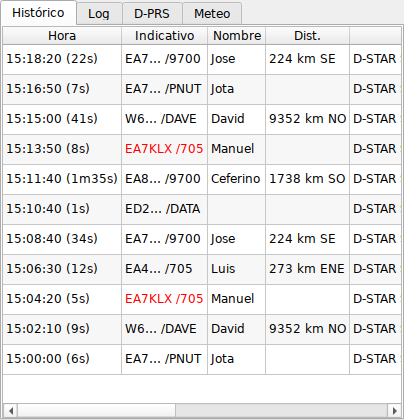
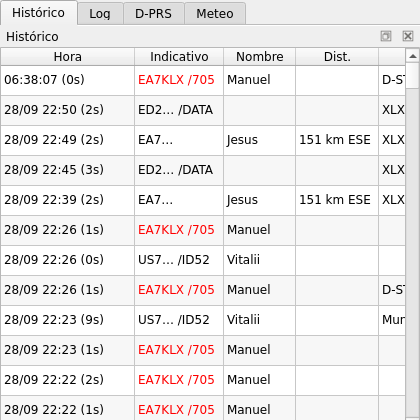
Website: 0.7.0 manual sections and screenshots, new home page screenshots and feature cards, version in the top bar, 0.7.0 changelog

Changed region(s): [[0.0, 0.0, 1.0, 1.0]]

diff --git a/website/site/es/manual.html b/website/site/es/manual.html
@@ -13,7 +13,7 @@
 <body>
 <header class="top">
   <div class="wrap">
-    <a class="brand" href="/es/"><img src="/img/icon.png" alt="">QDStar</a>
+    <a class="brand" href="/es/"><img src="/img/icon.png" alt="">QDStar<span class="ver" data-version="v{v}"></span></a>
     <nav>
       <a href="/es/#funciones">Funciones</a>
       <a href="/es/#descarga">Descarga</a>
@@ -149,7 +149,14 @@
     </ul>
     <h3>Modo, reflector y pestañas</h3>
     <p>Debajo de la pantalla están los botones <strong>INT · WiFi</strong> y <strong>EXT · USB/PC</strong>, con un LED en el que está activo. Aparece un ⚠ cuando la radio no está en el modo elegido, por ejemplo si sigue en INT y tú elegiste EXT. Deja el ratón encima para ver qué revisar.</p>
-    <p>Después vienen la lista de reflectores con sus botones y las pestañas <strong>Histórico</strong>, <strong>Log</strong>, <strong>D-PRS</strong> y <strong>Meteo</strong>.</p>
+    <p>Después vienen la lista de reflectores con sus botones y las vistas <strong>Histórico</strong>, <strong>Log</strong>, <strong>D-PRS</strong> y <strong>Meteo</strong>.</p>
+    <h3 id="vistas">Las vistas: Histórico, Log, D-PRS y Meteo</h3>
+    <p>Por defecto, las cuatro vistas están en pestañas debajo de la pantalla. Cada una tiene una pequeña barra de título con dos botones:</p>
+    <ul>
+      <li><strong>Desacoplar</strong> (o doble clic en la barra de título) pasa la vista a su propia ventana, que puedes mover y hacer tan grande como quieras. El Histórico, por ejemplo, puede ser mucho más ancho que la ventana principal. El mismo botón, o un doble clic, la vuelve a acoplar.</li>
+      <li><strong>Cerrar</strong> (✕) oculta la vista. El menú <em>Ver</em> tiene una casilla por vista para mostrarla u ocultarla.</li>
+    </ul>
+    <p><em>Ver › Restablecer disposición</em> devuelve las cuatro vistas a sus pestañas. QDStar recuerda la disposición entre sesiones. Si no queda ninguna vista en la ventana principal, esta se encoge a la pantalla y sus barras, y vuelve a crecer cuando acoplas una.</p>
     <h3 id="bandeja">Icono en la bandeja del sistema</h3>
     <figure><img src="/img/tray-states.png" width="192" height="48" alt="Icono de la bandeja: en reposo, recibiendo y transmitiendo" loading="lazy"><figcaption>El icono de la bandeja: en reposo, recibiendo (punto verde) y transmitiendo (punto rojo)</figcaption></figure>
     <p>QDStar pone un icono en la bandeja del sistema. Lleva un punto verde mientras recibes y uno rojo mientras transmites, y su tooltip muestra el modo, el reflector y la estación en el aire. Haz clic en él para mostrar u ocultar la ventana. Con el botón derecho sale el menú, con <em>Mostrar/Ocultar QDStar</em> y <em>Salir</em>.</p>
@@ -192,6 +199,10 @@
     <h2 id="historico">Histórico y log</h2>
     <figure><img src="/img/es-tab-history.png" width="404" height="420" alt="Pestaña Histórico" loading="lazy"><figcaption>La pestaña Histórico</figcaption></figure>
     <p>La pestaña <strong>Histórico</strong> recoge cada pasada, recibida o transmitida. Las columnas son hora (con la duración de la pasada entre paréntesis), indicativo, nombre, distancia, reflector, localidad y mensaje. Tus propias pasadas tienen el indicativo en rojo. Si el nombre o el mensaje llegan cuando la pasada ya ha terminado, se completan en su fila. <em>Histórico › Vaciar histórico…</em> lo borra.</p>
+    <h3 id="detalle-historico">Una pasada del histórico en la pantalla</h3>
+    <p>Haz clic en una fila del Histórico y la pantalla muestra esa pasada en lugar de la actividad en directo, dentro de un marco violeta con la etiqueta <strong>HISTÓRICO</strong>. Ves su fecha, duración, reflector, indicativo, nombre, localidad, mensaje, y la distancia y el rumbo. Las flechas del teclado recorren el histórico y la pantalla las sigue. El bloque del reflector y los últimos escuchados siguen en directo.</p>
+    <figure><img src="/img/es-screen-history.png" width="480" height="360" alt="La pantalla mostrando una pasada del histórico" loading="lazy"><figcaption>Una pasada elegida en el Histórico, con el botón LIVE</figcaption></figure>
+    <p>Para volver al tiempo real, pulsa <strong>▶ LIVE</strong> (o haz clic en cualquier parte de la pantalla) o la tecla <kbd>Esc</kbd>. También vuelve sola en cuanto empieza una pasada nueva, recibida o transmitida, para que no te pierdas ninguna.</p>
     <p>La pestaña <strong>Log</strong> cuenta lo que va haciendo la aplicación: conexiones, enlaces y errores. <em>Radio › Registrar CI-V de RX/TX en el log</em> añade el tráfico CI-V en bruto, que viene bien para informar de un problema.</p>
 
     <h2 id="dprs">D-PRS y meteo</h2>
@@ -216,19 +227,21 @@
     <p>El passcode de APRS-IS se calcula a partir de tu indicativo, así que no hay que escribir nada. Si quieres, QDStar también puede enviar las posiciones de las estaciones que escucha. Las posiciones que vienen de APRS (objetos, estaciones meteorológicas, informes retransmitidos por otras estaciones) nunca se devuelven.</p>
 
     <h2 id="ajustes">Ajustes</h2>
-    <figure><img src="/img/es-settings.png" width="550" height="814" alt="Ajustes" loading="lazy"><figcaption>Radio › Ajustes…</figcaption></figure>
-    <p>Se abren desde <em>Radio › Ajustes…</em>. Los cambios se aplican al pulsar <em>Guardar</em>. Si cambias el idioma, QDStar lo usa a partir del siguiente arranque.</p>
+    <p>Se abren desde <em>Radio › Ajustes…</em>. Están repartidos en cuatro pestañas: <strong>Interfaz</strong>, <strong>Radio</strong>, <strong>INT / EXT</strong> y <strong>APRS-IS</strong>. La primera vez, sin la radio configurada todavía, se abren en la pestaña <strong>Radio</strong>. Los cambios se aplican al pulsar <em>Guardar</em>. Si cambias el idioma, QDStar lo usa a partir del siguiente arranque.</p>
     <h3>Interfaz</h3>
+    <figure><img src="/img/es-settings-interface.png" width="572" height="327" alt="Ajustes, pestaña Interfaz" loading="lazy"><figcaption>La pestaña Interfaz, con el grupo Bandeja del sistema</figcaption></figure>
+
     <table>
       <tr><th>Campo</th><th>Para qué sirve</th></tr>
       <tr><td>Idioma</td><td>El idioma de la interfaz. <em>Idioma del sistema</em> sigue el de tu ordenador, y usa el inglés si no hay traducción para ese idioma.</td></tr>
       <tr><td>Buscar versiones nuevas al arrancar</td><td>Al arrancar, y una vez al día mientras QDStar está abierto, pregunta a GitHub si hay versión nueva (mira <a href="#actualizaciones">Actualizaciones</a>). No se envía nada más.</td></tr>
-      <tr><td>Pestaña D-PRS con todos los informes recibidos</td><td>Muestra las pestañas <strong>D-PRS</strong> y <strong>Meteo</strong>. Desactívala si solo te interesa la posición de la estación en el aire, que la pantalla muestra de todas formas.</td></tr>
+      <tr><td>Pestaña D-PRS con todos los informes recibidos</td><td>Muestra las vistas <strong>D-PRS</strong> y <strong>Meteo</strong>. Desactívala si solo te interesa la posición de la estación en el aire, que la pantalla muestra de todas formas.</td></tr>
       <tr><td>Icono en la bandeja del sistema</td><td>Muestra el <a href="#bandeja">icono de la bandeja</a>. No está disponible si el escritorio no tiene bandeja del sistema.</td></tr>
       <tr><td>Avisar cuando una estación entra en el aire</td><td>Una notificación por cada estación nueva en el aire, solo mientras la ventana de QDStar no está en primer plano.</td></tr>
       <tr><td>Al cerrar la ventana, QDStar sigue funcionando en la bandeja</td><td>El botón de cerrar oculta la ventana en vez de salir. Para salir, usa el menú de la bandeja o <em>Radio › Salir</em>.</td></tr>
     </table>
     <h3>Radio (WiFi)</h3>
+    <figure><img src="/img/es-settings-radio.png" width="572" height="327" alt="Ajustes, pestaña Radio" loading="lazy"><figcaption>La pestaña Radio</figcaption></figure>
     <table>
       <tr><th>Campo</th><th>Para qué sirve</th></tr>
       <tr><td>Indicativo</td><td>Tu indicativo, sin sufijo (<code>EA7KLX</code>). Si lo dejas vacío, QDStar lo rellena con el MY call sign de la radio la primera vez que conecta. El gateway EXT lo usa para identificarse en los reflectores, y también para formar los Terminal/AP Call Sign cuando los dejas vacíos.</td></tr>
@@ -238,6 +251,7 @@
       <tr><td>Usuario de red / Contraseña</td><td>El <em>Network User</em> creado en la radio en <em>Remote Settings</em>. Solo se usan para iniciar sesión en la radio.</td></tr>
       <tr><td>Conectar al arrancar</td><td>Conecta con la radio en cuanto se abre QDStar. Si no está marcado, conecta desde <em>Radio › Conectar</em>.</td></tr>
     </table>
+    <figure><img src="/img/es-settings-modes.png" width="572" height="327" alt="Ajustes, pestaña INT / EXT" loading="lazy"><figcaption>La pestaña INT / EXT</figcaption></figure>
     <h3>Modo INT (gateway interno, WiFi)</h3>
     <table>
       <tr><th>Campo</th><th>Para qué sirve</th></tr>
@@ -262,6 +276,7 @@
     </table>
 
     <h3>APRS-IS</h3>
+    <figure><img src="/img/es-settings-aprs.png" width="572" height="327" alt="Ajustes, pestaña APRS-IS" loading="lazy"><figcaption>La pestaña APRS-IS</figcaption></figure>
     <table>
       <tr><th>Campo</th><th>Para qué sirve</th></tr>
       <tr><td>Enviar mi posición D-PRS a APRS-IS (aprs.fi) tras cada pasada</td><td>Mira <a href="#aprs">Tu posición en APRS-IS</a>. Desactivado por defecto.</td></tr>
@@ -309,5 +324,6 @@
   </div>
 </footer>
 <script src="/zoom.js" defer></script>
+<script src="/latest.js" defer></script>
 </body>
 </html>

diff --git a/website/site/manual.html b/website/site/manual.html
@@ -13,7 +13,7 @@
 <body>
 <header class="top">
   <div class="wrap">
-    <a class="brand" href="/"><img src="/img/icon.png" alt="">QDStar</a>
+    <a class="brand" href="/"><img src="/img/icon.png" alt="">QDStar<span class="ver" data-version="v{v}"></span></a>
     <nav>
       <a href="/#features">Features</a>
       <a href="/#download">Download</a>
@@ -149,7 +149,14 @@
     </ul>
     <h3>Mode, reflector and tabs</h3>
     <p>Below the screen are the <strong>INT · WiFi</strong> and <strong>EXT · USB/PC</strong> buttons, with a LED on the active one. A ⚠ sign appears when the radio does not match the chosen mode, for example when the radio is still in INT while you chose EXT. Hover over it to see what to check.</p>
-    <p>Next come the reflector list with its buttons, and the <strong>History</strong>, <strong>Log</strong>, <strong>D-PRS</strong> and <strong>Weather</strong> tabs.</p>
+    <p>Next come the reflector list with its buttons, and the <strong>History</strong>, <strong>Log</strong>, <strong>D-PRS</strong> and <strong>Weather</strong> views.</p>
+    <h3 id="views">The views: History, Log, D-PRS and Weather</h3>
+    <p>By default the four views sit as tabs under the screen. Each one has a small title bar with two buttons:</p>
+    <ul>
+      <li><strong>Detach</strong> (or a double click on the title bar) moves the view into its own window, which you can move and make as large as you like. The History, for instance, can be much wider than the main window. The same button, or a double click, attaches it back.</li>
+      <li><strong>Close</strong> (✕) hides the view. The <em>View</em> menu has a tick box for each view to show or hide it.</li>
+    </ul>
+    <p><em>View › Reset layout</em> brings the four views back as tabs. QDStar remembers the layout between sessions. With no view left in the main window, it shrinks to the screen and its bars, and it grows back when you attach one.</p>
     <h3 id="tray">System tray icon</h3>
     <figure><img src="/img/tray-states.png" width="192" height="48" alt="Tray icon: idle, receiving and transmitting" loading="lazy"><figcaption>The tray icon: idle, receiving (green dot) and transmitting (red dot)</figcaption></figure>
     <p>QDStar puts an icon in the system tray. It has a green dot while you receive and a red one while you transmit, and its tooltip shows the mode, the reflector and the station on the air. Click it to show or hide the window. Right-click it for the menu, with <em>Show/Hide QDStar</em> and <em>Quit</em>.</p>
@@ -192,6 +199,10 @@
     <h2 id="history">History and log</h2>
     <figure><img src="/img/en-tab-history.png" width="404" height="420" alt="History tab" loading="lazy"><figcaption>The History tab</figcaption></figure>
     <p>The <strong>History</strong> tab lists every over, received and transmitted. The columns are time (with the over's duration in brackets), call sign, name, distance, reflector, location and message. Your own overs have the call sign in red. A name or message that arrives after the over has ended is filled in on its row. <em>History › Clear history…</em> deletes it.</p>
+    <h3 id="history-detail">An over from the history on the screen</h3>
+    <p>Click a row of the History and the screen shows that over in place of the live activity, in a violet frame labelled <strong>HISTORY</strong>. You see its date, duration, reflector, call sign, name, location, message, and the distance and bearing. The arrow keys move through the history, and the screen follows. The reflector block and the last heard list stay live.</p>
+    <figure><img src="/img/en-screen-history.png" width="480" height="360" alt="The screen showing an over from the history" loading="lazy"><figcaption>An over picked in the History, with the LIVE button</figcaption></figure>
+    <p>To go back to the real-time view, press <strong>▶ LIVE</strong> (or click anywhere on the screen) or press <kbd>Esc</kbd>. It also goes back on its own as soon as a new over starts, received or transmitted, so you never miss one.</p>
     <p>The <strong>Log</strong> tab shows what the application is doing: connections, links, errors. <em>Radio › Log RX/TX CI-V frames</em> adds the raw CI-V traffic, which is useful when reporting a problem.</p>
 
     <h2 id="dprs">D-PRS and weather</h2>
@@ -216,19 +227,21 @@
     <p>The APRS-IS passcode is worked out from your call sign, so there is nothing to type. Optionally, QDStar can also send the positions of the stations it hears. Positions that come from APRS (objects, weather stations, reports relayed by other stations) are never sent back.</p>
 
     <h2 id="settings">Settings</h2>
-    <figure><img src="/img/en-settings.png" width="502" height="814" alt="Settings dialog" loading="lazy"><figcaption>Radio › Settings…</figcaption></figure>
-    <p>Open them from <em>Radio › Settings…</em>. Changes apply when you press <em>Save</em>. If you change the language, QDStar uses it from the next start.</p>
+    <p>Open them from <em>Radio › Settings…</em>. They are split into four tabs: <strong>Interface</strong>, <strong>Radio</strong>, <strong>INT / EXT</strong> and <strong>APRS-IS</strong>. The first time, with no radio set up yet, they open on the <strong>Radio</strong> tab. Changes apply when you press <em>Save</em>. If you change the language, QDStar uses it from the next start.</p>
     <h3>Interface</h3>
+    <figure><img src="/img/en-settings-interface.png" width="524" height="327" alt="Settings, Interface tab" loading="lazy"><figcaption>The Interface tab, with the System tray group</figcaption></figure>
+
     <table>
       <tr><th>Field</th><th>What it does</th></tr>
       <tr><td>Language</td><td>The language of the interface. <em>System language</em> follows your computer, and falls back to English when the system language has no translation.</td></tr>
       <tr><td>Check for new versions on start-up</td><td>On start-up, and once a day while QDStar is open, it asks GitHub whether there is a new version (see <a href="#updates">Updates</a>). Nothing else is sent.</td></tr>
-      <tr><td>D-PRS tab with every report received</td><td>Shows the <strong>D-PRS</strong> and <strong>Weather</strong> tabs. Turn it off if you only care about the position of the station on the air, which the screen shows either way.</td></tr>
+      <tr><td>D-PRS tab with every report received</td><td>Shows the <strong>D-PRS</strong> and <strong>Weather</strong> views. Turn it off if you only care about the position of the station on the air, which the screen shows either way.</td></tr>
       <tr><td>Icon in the system tray</td><td>Shows the <a href="#tray">tray icon</a>. It is not available when the desktop has no system tray.</td></tr>
       <tr><td>Notify when a station comes on air</td><td>A notification for each new station on the air, only while the QDStar window is not in front.</td></tr>
       <tr><td>Closing the window keeps QDStar running in the tray</td><td>The close button hides the window instead of quitting. Quit from the tray menu or from <em>Radio › Quit</em>.</td></tr>
     </table>
     <h3>Radio (WiFi)</h3>
+    <figure><img src="/img/en-settings-radio.png" width="524" height="327" alt="Settings, Radio tab" loading="lazy"><figcaption>The Radio tab</figcaption></figure>
     <table>
       <tr><th>Field</th><th>What it does</th></tr>
       <tr><td>Call sign</td><td>Your call sign, without a suffix (<code>EA7KLX</code>). If you leave it empty, QDStar fills it in with the radio's MY call sign the first time it connects. The EXT gateway uses it to log in to reflectors, and to build the Terminal/AP call signs when those are left empty.</td></tr>
@@ -238,6 +251,7 @@
       <tr><td>Network user / Password</td><td>The <em>Network User</em> created on the radio in <em>Remote Settings</em>. They are only used to log in to the radio.</td></tr>
       <tr><td>Connect on start-up</td><td>Connects to the radio as soon as QDStar opens. Otherwise, connect from <em>Radio › Connect</em>.</td></tr>
     </table>
+    <figure><img src="/img/en-settings-modes.png" width="524" height="327" alt="Settings, INT / EXT tab" loading="lazy"><figcaption>The INT / EXT tab</figcaption></figure>
     <h3>INT mode (internal gateway, WiFi)</h3>
     <table>
       <tr><th>Field</th><th>What it does</th></tr>
@@ -262,6 +276,7 @@
     </table>
 
     <h3>APRS-IS</h3>
+    <figure><img src="/img/en-settings-aprs.png" width="524" height="327" alt="Settings, APRS-IS tab" loading="lazy"><figcaption>The APRS-IS tab</figcaption></figure>
     <table>
       <tr><th>Field</th><th>What it does</th></tr>
       <tr><td>Send my D-PRS position to APRS-IS (aprs.fi) after every over</td><td>See <a href="#aprs">Your position on APRS-IS</a>. Off by default.</td></tr>
@@ -309,5 +324,6 @@
   </div>
 </footer>
 <script src="/zoom.js" defer></script>
+<script src="/latest.js" defer></script>
 </body>
 </html>

diff --git a/website/site/es/index.html b/website/site/es/index.html
@@ -13,7 +13,7 @@
 <body>
 <header class="top">
   <div class="wrap">
-    <a class="brand" href="/es/"><img src="/img/icon.png" alt="">QDStar</a>
+    <a class="brand" href="/es/"><img src="/img/icon.png" alt="">QDStar<span class="ver" data-version="v{v}"></span></a>
     <nav>
       <a href="#funciones">Funciones</a>
       <a href="#descarga">Descarga</a>
@@ -38,8 +38,8 @@
       <p class="version">Software libre · GPL-3.0</p>
     </div>
     <div class="photos">
-      <img src="/img/photo-history.jpg" width="634" height="1312" alt="QDStar enlazado a DCS214 D, recibiendo una estación de California, con la pestaña de histórico abierta">
-      <img src="/img/photo-weather.jpg" width="634" height="1312" alt="QDStar enlazado a DCS214 D con la pestaña de meteo mostrando una estación meteorológica D-PRS">
+      <img src="/img/photo-history.jpg" width="525" height="1190" alt="QDStar en XLX214 D recibiendo una estación de Gran Canaria, con la vista Histórico abierta">
+      <img src="/img/photo-weather.jpg" width="525" height="1190" alt="QDStar en XLX214 D con la vista Meteo mostrando dos estaciones meteorológicas D-PRS">
     </div>
   </div>
 
@@ -55,10 +55,15 @@
       <div class="card"><h3>Por WiFi</h3><p>Habla con la radio con el protocolo de red de Icom (control y CI-V, sin audio). No hace falta wfview.</p></div>
       <div class="card"><h3>Gateway integrado</h3><p>Terminal Mode por USB con su propio gateway: DPlus (REF), DCS (DCS, XLX) y DExtra (XRF). Sin DStarRepeater ni ircDDBGateway.</p></div>
       <div class="card"><h3>Modos INT y EXT</h3><p>Usa el gateway interno de la radio con un servidor G3, o enlaza reflectores desde el PC. Se cambia con un clic.</p></div>
+      <div class="card"><h3>Enlaza desde la radio</h3><p>En EXT, enlaza, desenlaza y haz la prueba de eco desde el campo UR de la radio, como con ircDDBGateway.</p></div>
       <div class="card"><h3>Pantalla del reflector</h3><p>Estado y nodos del reflector, la estación en el aire con nombre, localidad, distancia y rumbo, y los últimos oídos del reflector.</p></div>
+      <div class="card"><h3>Histórico</h3><p>Se guarda cada pasada: hora, indicativo, nombre, reflector, duración, mensaje y localidad. Haz clic en una para volver a verla en la pantalla.</p></div>
       <div class="card"><h3>D-PRS</h3><p>Posiciones, objetos, ítems e informes meteorológicos recibidos, también los reenviados. Gestiona tu propia baliza D-PRS desde la app.</p></div>
+      <div class="card"><h3>APRS-IS</h3><p>Tu posición D-PRS llega a aprs.fi tras cada pasada, y si quieres también las de las estaciones que escuchas.</p></div>
       <div class="card"><h3>Meteo</h3><p>Una ficha por cada estación meteorológica D-PRS: temperatura, humedad, presión, lluvia y viento.</p></div>
-      <div class="card"><h3>Histórico</h3><p>Se guarda cada pasada: hora, indicativo, nombre, reflector, duración, mensaje y localidad.</p></div>
+      <div class="card"><h3>Bandeja del sistema</h3><p>Un icono con la estación en el aire y un aviso cuando entra alguien, con la ventana fuera de la vista.</p></div>
+      <div class="card"><h3>A tu gusto</h3><p>Histórico, Log, D-PRS y Meteo se pueden desacoplar en ventanas propias, volver a acoplar u ocultar.</p></div>
+      <div class="card"><h3>Actualizaciones</h3><p>QDStar te avisa cuando sale una versión nueva, y el AppImage de Linux se actualiza solo tras comprobar la descarga.</p></div>
       <div class="card"><h3>Windows y Linux</h3><p>Instalador para Windows; .deb, AppImage y tar.gz para Linux x86-64 y ARM64 (Raspberry Pi y otros mini PC).</p></div>
       <div class="card"><h3>Español e inglés</h3><p>La interfaz sigue el idioma del sistema. Se aceptan traducciones nuevas.</p></div>
     </div>
@@ -70,7 +75,8 @@
       <figure><img src="/img/es-tab-history.png" width="404" height="420" alt="Pestaña Histórico" loading="lazy"><figcaption>Histórico de pasadas</figcaption></figure>
       <figure><img src="/img/es-tab-dprs.png" width="404" height="250" alt="Pestaña D-PRS" loading="lazy"><figcaption>Informes D-PRS recibidos</figcaption></figure>
       <figure><img src="/img/es-tab-weather.png" width="404" height="150" alt="Pestaña Meteo" loading="lazy"><figcaption>Estaciones meteorológicas D-PRS</figcaption></figure>
-      <figure><img src="/img/es-settings.png" width="550" height="592" alt="Ajustes" loading="lazy"><figcaption>Ajustes</figcaption></figure>
+      <figure><img src="/img/es-screen-history.png" width="480" height="360" alt="La pantalla mostrando una pasada del histórico" loading="lazy"><figcaption>Una pasada del histórico en la pantalla</figcaption></figure>
+      <figure><img src="/img/es-settings-interface.png" width="572" height="327" alt="Ajustes" loading="lazy"><figcaption>Ajustes</figcaption></figure>
       <figure><img src="/img/es-reflectors.png" width="560" height="460" alt="Gestión de reflectores" loading="lazy"><figcaption>Gestión de reflectores</figcaption></figure>
     </div>
     <p style="color:var(--dim);font-size:14px">En estas imágenes se ocultan los indicativos de otras estaciones.</p>

diff --git a/website/site/index.html b/website/site/index.html
@@ -13,7 +13,7 @@
 <body>
 <header class="top">
   <div class="wrap">
-    <a class="brand" href="/"><img src="/img/icon.png" alt="">QDStar</a>
+    <a class="brand" href="/"><img src="/img/icon.png" alt="">QDStar<span class="ver" data-version="v{v}"></span></a>
     <nav>
       <a href="#features">Features</a>
       <a href="#download">Download</a>
@@ -38,8 +38,8 @@
       <p class="version">Free software · GPL-3.0</p>
     </div>
     <div class="photos">
-      <img src="/img/photo-history.jpg" width="634" height="1312" alt="QDStar linked to DCS214 D, receiving a station from California, with the history tab open">
-      <img src="/img/photo-weather.jpg" width="634" height="1312" alt="QDStar linked to DCS214 D with the weather tab showing a D-PRS weather station">
+      <img src="/img/photo-history.jpg" width="525" height="1190" alt="QDStar on XLX214 D receiving a station from Gran Canaria, with the History view open">
+      <img src="/img/photo-weather.jpg" width="525" height="1190" alt="QDStar on XLX214 D with the Weather view showing two D-PRS weather stations">
     </div>
   </div>
 
@@ -55,10 +55,15 @@
       <div class="card"><h3>Over WiFi</h3><p>Talks to the radio with the Icom network protocol (control and CI-V, no audio). No wfview needed.</p></div>
       <div class="card"><h3>Built-in gateway</h3><p>Terminal Mode over USB with its own gateway: DPlus (REF), DCS (DCS, XLX) and DExtra (XRF). No DStarRepeater or ircDDBGateway.</p></div>
       <div class="card"><h3>INT and EXT modes</h3><p>Use the radio's internal gateway with a G3 server, or link reflectors from the PC. Switch with one click.</p></div>
+      <div class="card"><h3>Link from the radio</h3><p>In EXT, link, unlink and run an echo test from the radio's UR field, as with ircDDBGateway.</p></div>
       <div class="card"><h3>Reflector screen</h3><p>Reflector state and nodes, the station on the air with name, location, distance and bearing, and the reflector's last heard list.</p></div>
+      <div class="card"><h3>History</h3><p>Every over is saved: time, call sign, name, reflector, duration, message and location. Click one to see it again on the screen.</p></div>
       <div class="card"><h3>D-PRS</h3><p>Positions, objects, items and weather reports received, relayed ones included. Manage your own D-PRS beacon from the app.</p></div>
+      <div class="card"><h3>APRS-IS</h3><p>Your D-PRS position goes to aprs.fi after every over, and optionally the positions of the stations you hear.</p></div>
       <div class="card"><h3>Weather</h3><p>A card per D-PRS weather station: temperature, humidity, pressure, rain and wind.</p></div>
-      <div class="card"><h3>History</h3><p>Every over is saved: time, call sign, name, reflector, duration, message and location.</p></div>
+      <div class="card"><h3>System tray</h3><p>An icon with the station on the air and a notification when someone comes on, with the window out of sight.</p></div>
+      <div class="card"><h3>Your layout</h3><p>History, Log, D-PRS and Weather can be detached into their own windows, attached back or hidden.</p></div>
+      <div class="card"><h3>Updates</h3><p>QDStar tells you when a new version is out, and the Linux AppImage updates itself after checking the download.</p></div>
       <div class="card"><h3>Windows and Linux</h3><p>Installer for Windows, .deb, AppImage and tar.gz for Linux x86-64 and ARM64 (Raspberry Pi and other mini PCs).</p></div>
       <div class="card"><h3>English and Spanish</h3><p>The interface follows the system language. New translations are welcome.</p></div>
     </div>
@@ -70,7 +75,8 @@
       <figure><img src="/img/en-tab-history.png" width="404" height="420" alt="History tab" loading="lazy"><figcaption>History of overs</figcaption></figure>
       <figure><img src="/img/en-tab-dprs.png" width="404" height="250" alt="D-PRS tab" loading="lazy"><figcaption>D-PRS reports received</figcaption></figure>
       <figure><img src="/img/en-tab-weather.png" width="404" height="150" alt="Weather tab" loading="lazy"><figcaption>D-PRS weather stations</figcaption></figure>
-      <figure><img src="/img/en-settings.png" width="502" height="592" alt="Settings dialog" loading="lazy"><figcaption>Settings</figcaption></figure>
+      <figure><img src="/img/en-screen-history.png" width="480" height="360" alt="The screen showing an over from the history" loading="lazy"><figcaption>An over from the history on the screen</figcaption></figure>
+      <figure><img src="/img/en-settings-interface.png" width="524" height="327" alt="Settings dialog" loading="lazy"><figcaption>Settings</figcaption></figure>
       <figure><img src="/img/en-reflectors.png" width="560" height="460" alt="Reflector manager" loading="lazy"><figcaption>Reflector manager</figcaption></figure>
     </div>
     <p style="color:var(--dim);font-size:14px">Call signs of other stations are hidden in these images.</p>

diff --git a/website/site/es/changelog.html b/website/site/es/changelog.html
@@ -13,7 +13,7 @@
 <body>
 <header class="top">
   <div class="wrap">
-    <a class="brand" href="/es/"><img src="/img/icon.png" alt="">QDStar</a>
+    <a class="brand" href="/es/"><img src="/img/icon.png" alt="">QDStar<span class="ver" data-version="v{v}"></span></a>
     <nav>
       <a href="/es/#funciones">Funciones</a>
       <a href="/es/#descarga">Descarga</a>
@@ -28,6 +28,15 @@
 <main class="wrap changes">
   <h1>Cambios</h1>
   <p class="lead">Novedades y correcciones de cada versión. Los ficheros de cada una están en <a href="https://github.com/manuel-alcocer/qdstar/releases">las releases de GitHub</a>.</p>
+  <section class="release" id="v0.7.0">
+    <h2>0.7.0 <time datetime="2026-09-29">2026-09-29</time></h2>
+    <ul>
+      <li>Nuevo: haz clic en una fila del Histórico para volver a ver esa pasada en la pantalla, con su fecha, duración, reflector y distancia. <em>▶ LIVE</em>, <kbd>Esc</kbd> o una pasada nueva devuelven la vista en directo. Mira <a href="/es/manual.html#detalle-historico">el manual</a>.</li>
+      <li>Nuevo: las vistas Histórico, Log, D-PRS y Meteo se pueden desacoplar en ventanas propias redimensionables, volver a acoplar u ocultar, con un menú <em>Ver</em> nuevo. QDStar recuerda la disposición. Mira <a href="/es/manual.html#vistas">el manual</a>.</li>
+      <li>Los ajustes se reparten en cuatro pestañas (Interfaz, Radio, INT / EXT y APRS-IS), así que el diálogo vuelve a caber en la pantalla de un portátil.</li>
+      <li>Corregido: las distancias de 1000 km o más salían cortadas en la pantalla ("1352 …").</li>
+    </ul>
+  </section>
   <section class="release" id="v0.6.1">
     <h2>0.6.1 <time datetime="2026-09-28">2026-09-28</time></h2>
     <ul>
@@ -231,5 +240,6 @@
     <span><a href="https://github.com/manuel-alcocer/qdstar">Código fuente</a> · GPL-3.0-or-later</span>
   </div>
 </footer>
+<script src="/latest.js" defer></script>
 </body>
 </html>

diff --git a/website/site/changelog.html b/website/site/changelog.html
@@ -13,7 +13,7 @@
 <body>
 <header class="top">
   <div class="wrap">
-    <a class="brand" href="/"><img src="/img/icon.png" alt="">QDStar</a>
+    <a class="brand" href="/"><img src="/img/icon.png" alt="">QDStar<span class="ver" data-version="v{v}"></span></a>
     <nav>
       <a href="/#features">Features</a>
       <a href="/#download">Download</a>
@@ -28,6 +28,15 @@
 <main class="wrap changes">
   <h1>Changelog</h1>
   <p class="lead">What is new and fixed in each version. The files of every version are on <a href="https://github.com/manuel-alcocer/qdstar/releases">GitHub releases</a>.</p>
+  <section class="release" id="v0.7.0">
+    <h2>0.7.0 <time datetime="2026-09-29">2026-09-29</time></h2>
+    <ul>
+      <li>New: click a row of the History to see that over again on the screen, with its date, duration, reflector and distance. <em>▶ LIVE</em>, <kbd>Esc</kbd> or a new over bring back the live view. See <a href="/manual.html#history-detail">the manual</a>.</li>
+      <li>New: the History, Log, D-PRS and Weather views can be detached into their own resizable windows, attached back or hidden, with a new <em>View</em> menu. QDStar remembers the layout. See <a href="/manual.html#views">the manual</a>.</li>
+      <li>Settings are split into four tabs (Interface, Radio, INT / EXT and APRS-IS), so the dialog fits on a laptop screen again.</li>
+      <li>Fixed: distances of 1000 km or more were cut short on the screen ("1352 …").</li>
+    </ul>
+  </section>
   <section class="release" id="v0.6.1">
     <h2>0.6.1 <time datetime="2026-09-28">2026-09-28</time></h2>
     <ul>
@@ -231,5 +240,6 @@
     <span><a href="https://github.com/manuel-alcocer/qdstar">Source code</a> · GPL-3.0-or-later</span>
   </div>
 </footer>
+<script src="/latest.js" defer></script>
 </body>
 </html>

diff --git a/website/site/style.css b/website/site/style.css
@@ -68,6 +68,14 @@ header.top .wrap {
   margin-right: auto;
 }
 .brand img { width: 30px; height: 30px; }
+/* Latest release, filled in by latest.js (empty without JavaScript) */
+.brand .ver {
+  font: 500 13px var(--mono);
+  color: var(--dim);
+  align-self: flex-end;
+  margin: 0 0 3px -4px;
+}
+.brand .ver:empty { display: none; }
 
 header.top nav { display: flex; gap: 18px; align-items: center; }
 header.top nav a { color: var(--dim); text-decoration: none; font-size: 15px; }

diff --git a/website/site/latest.js b/website/site/latest.js
@@ -1,4 +1,4 @@
-// Shows the latest release's version next to the download link. Without
+// Shows the latest release's version next to the download link and the logo. Without
 // JavaScript (or if GitHub does not answer) the label keeps its default text.
 (function () {
   fetch("https://api.github.com/repos/manuel-alcocer/qdstar/releases/latest",
